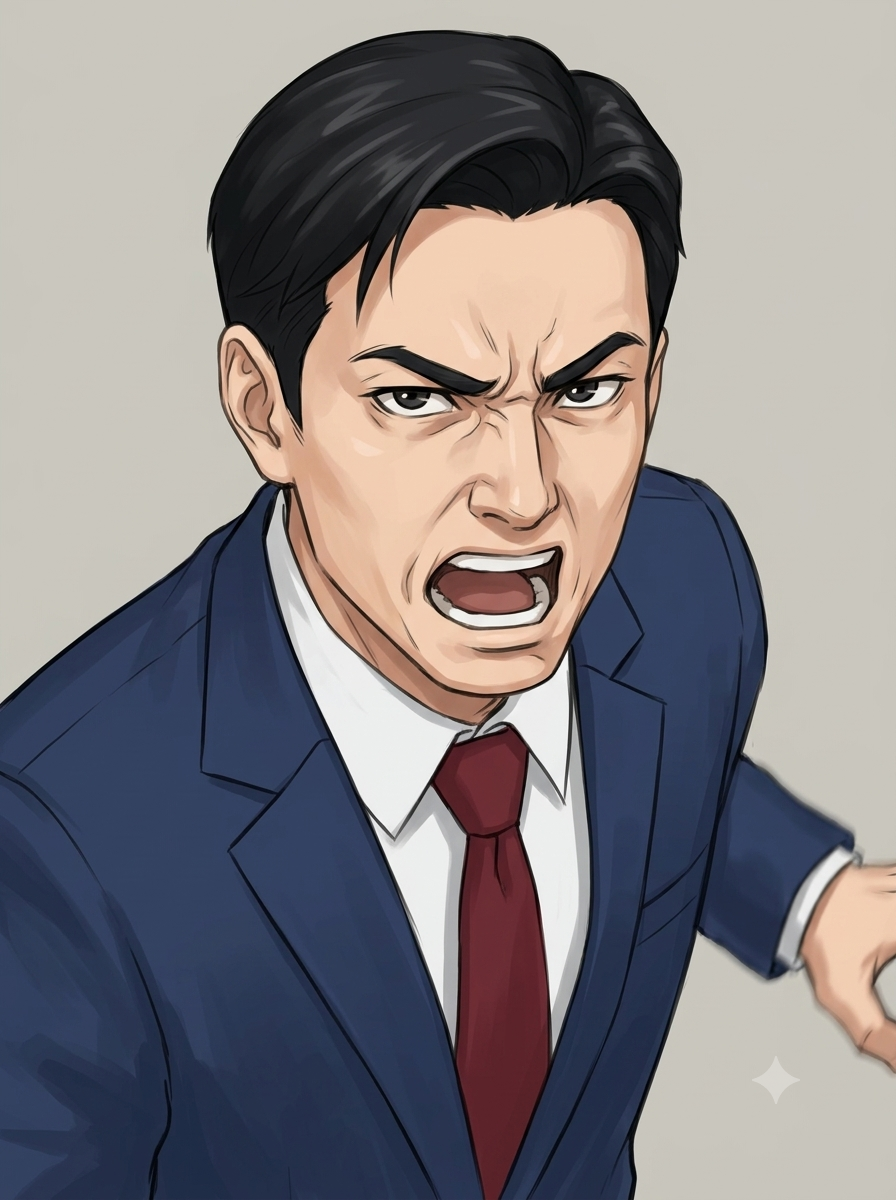
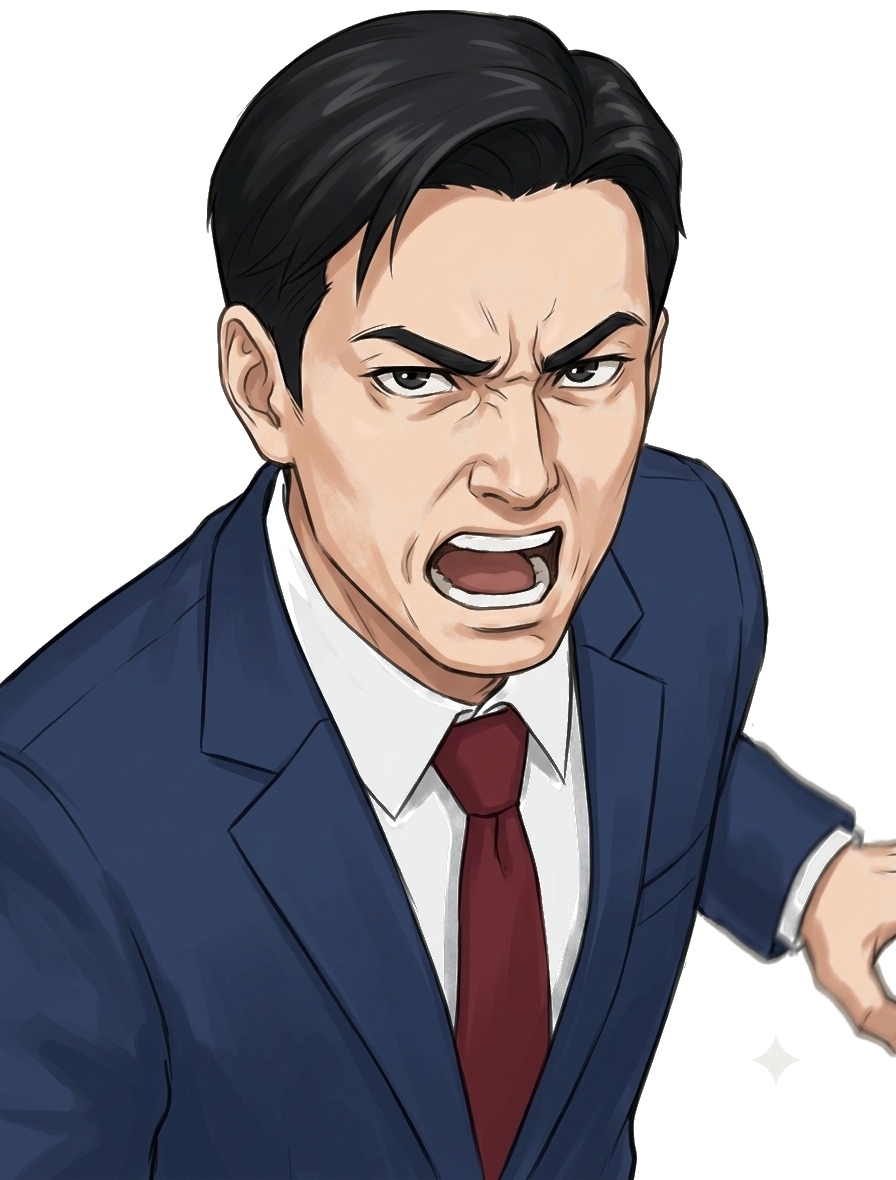
ตัดฉากหลังพอร์เทรตทุกตัวละคร (ทั้งศาลและสวนสัตว์) + ปรับตัวละครในฉากบ่อ/ตีดำ + หน้าอารมณ์ลอยเหนือหัว
- ตัดพื้นหลังสีเทาออกจากพอร์เทรตทั้ง 46 ไฟล์ใน pics/game/portraits/ ให้เป็น
  transparent PNG จริง (ของเดิมเป็น RGBA แต่ alpha=255 ทึบตลอด แค่หลอกเป็น
  .png) แก้ปัญหากรอบสี่เหลี่ยมเทาลอยในกล่องบทสนทนาศาล — ไฟล์ .jpg เดิม
  (judge/prosecutor/defense_lawyer/female_teen/male_fan/male_teen บางส่วน)
  แปลงเป็น .png แล้วลบของเก่าทิ้ง เพราะ JPG ไม่รองรับ alpha
- แก้บั๊ก keying พลาดเฉพาะจุดที่มุมภาพดันเป็นเนื้อตัวละครไม่ใช่พื้นหลัง
  (judge ทั้งชุด, prosecutor 2 ไฟล์, courtroom_cat_sleepy, hippo_mother_angry)
  ด้วยการประมาณสีพื้นหลังจาก median ของจุดตัวอย่างรอบขอบภาพแทนการเฉลี่ย
  4 มุมตรงๆ ซึ่งพังเมื่อบางมุมมีไหล่/ชุดสูทของตัวละครเต็มมุม
- beat "โจนาห์กัดเหลือง": เอาแดง/ดำออกจากฉากตามที่ขอ เหลือแค่เหลือง+โจนาห์
- beat "แดงตีดำ": เอาเหลืองออกจากฉาก เหลือแค่แดง+ดำ
- เพิ่ม pics/game/reactions/<id>_<expr>.png (ครอปหน้าเฉพาะจากพอร์เทรตที่มี
  อยู่แล้ว) + reaction-badge ลูกโป่งหน้าอารมณ์กลมลอยเหนือหัวตัวละครในฉาก
  สวนสัตว์ ผูกกับฟิลด์ expr ต่อ actor ต่อ beat (เดิม pose emoji ไม่โชว์จริง
  เพราะถูกภาพจริงบังไว้ตลอด — ตอนนี้ใช้หน้าตาตัวละครจริงแทน)
- ขยับ .stage-frame margin-top กัน reaction-badge ที่ลอยสูงชนกล่องคำเตือน AI

diff --git a/game-crimlaw-scenario.html b/game-crimlaw-scenario.html
@@ -172,7 +172,7 @@ h1,h2{font-family:'Noto Serif Thai',serif}
 .beat-dot.done{background:var(--gold)}
 .beat-dot.current{background:var(--accent)}
 
-.stage-frame{position:relative;margin-top:26px}
+.stage-frame{position:relative;margin-top:48px}
 .stage{
   position:relative;width:100%;aspect-ratio:4/3;border-radius:var(--radius);
   overflow:hidden;box-shadow:var(--shadow);border:1px solid var(--line);
@@ -249,6 +249,17 @@ h1,h2{font-family:'Noto Serif Thai',serif}
   filter:drop-shadow(0 1px 2px rgba(0,0,0,.4));
 }
 .sprite.bandaged .bandage-badge{display:block}
+
+/* small emotion-face reaction bubble, peeking above the character's head —
+   swapped per beat from the actor's expression portrait set */
+.reaction-badge{
+  position:absolute;top:-6%;right:-4%;width:40%;max-width:52px;
+  aspect-ratio:1/1;border-radius:50%;object-fit:cover;object-position:top center;
+  border:2px solid rgba(255,255,255,.9);box-shadow:0 3px 8px rgba(0,0,0,.35);
+  background:var(--card);opacity:0;transform:scale(.6);
+  transition:opacity .25s ease,transform .25s ease;
+}
+.reaction-badge.show{opacity:1;transform:scale(1)}
 
 .caption-box{
   background:var(--card);border:1px solid var(--line);border-radius:var(--radius);
@@ -453,6 +464,7 @@ const BACKGROUNDS = {
 };
 function spritePath(id){ return 'pics/game/sprites/' + id + '.png'; }
 function standeePath(id){ return 'pics/game/standees/' + id + '.png'; }
+function reactionPath(id, expr){ return 'pics/game/reactions/' + id + '_' + expr + '.png'; }
 function bgPath(id){ return 'pics/game/backgrounds/' + id + '.jpg'; }
 function portraitPath(id, expression){ return 'pics/game/portraits/' + id + '_' + (expression || 'neutral') + '.png'; }
 function courtDisplayName(id){
@@ -480,6 +492,7 @@ function renderSpriteAvatarHTML(spriteId){
        + `onload="this.previousElementSibling.style.display='none'" onerror="this.remove()">`
        + `<span class="bandage-badge">🩹</span>`
        + `<span class="splash-fx">💦</span>`
+       + `<img class="reaction-badge" src="" alt="" onerror="this.classList.remove('show')">`
        + `</div>`;
 }
 function renderStageBgHTML(bgId){
@@ -512,19 +525,19 @@ const SCENARIOS = [
       { caption: 'นายแดง (อายุ 16 ปี) แอบหยิบแหวนทองของแม่ไปจำนำ เอาเงินมาชวน นส.เหลือง แฟนสาว มาเที่ยวดูหมูเด้งที่สวนสัตว์เปิดเขาเขียว',
         actors: [ { id:'male_teen', x:28, active:true }, { id:'female_teen', x:44 } ] },
       { caption: 'ระหว่างต่อคิวดูหมูเด้ง นางดำ ซึ่งอ้างตัวเป็นอินฟลูเอนเซอร์ถ่ายคอนเทนต์ เดินแซงคิวเบียดเสียดผู้คนอย่างไม่แคร์ใคร',
-        actors: [ { id:'male_teen', x:24 }, { id:'female_teen', x:40 }, { id:'female_influencer', x:60, active:true, pose:'🏃♀' } ] },
+        actors: [ { id:'male_teen', x:24 }, { id:'female_teen', x:40 }, { id:'female_influencer', x:60, active:true, pose:'🏃♀', expr:'confident' } ] },
       { caption: 'นางดำเบียดจนชน นส.เหลือง เซถลาตกลงไปในบ่อหมูเด้ง (บ่อไม่ลึกมากนัก)',
-        actors: [ { id:'male_teen', x:22, pose:'😨' }, { id:'female_teen', x:48, active:true, pose:'😱', scale:0.55, effect:'splash' }, { id:'female_influencer', x:56 } ] },
+        actors: [ { id:'male_teen', x:22, pose:'😨', expr:'shocked' }, { id:'female_teen', x:48, active:true, pose:'😱', scale:0.55, effect:'splash', expr:'shocked' }, { id:'female_influencer', x:56 } ] },
       { caption: 'โจนาห์ แม่ฮิปโปแคระ ตกใจ วิ่งเข้าใส่กัด นส.เหลือง จนได้รับบาดเจ็บสาหัส',
-        actors: [ { id:'male_teen', x:20, pose:'😱' }, { id:'female_teen', x:48, pose:'🤕', bandaged:true }, { id:'hippo_mother', x:44, active:true, pose:'😡' }, { id:'female_influencer', x:60 } ] },
+        actors: [ { id:'female_teen', x:38, pose:'🤕', bandaged:true, expr:'shocked' }, { id:'hippo_mother', x:58, active:true, pose:'😡', expr:'angry' } ] },
       { caption: 'นายแดงเห็นแฟนสาวถูกกัดจนโกรธจัด แย่งขาตั้งกล้องจากนางดำมากระหน่ำตี ทำให้นางดำบาดเจ็บที่แขนและขา',
-        actors: [ { id:'male_teen', x:52, active:true, pose:'😡' }, { id:'female_influencer', x:60, pose:'🤕' }, { id:'female_teen', x:32, pose:'🤕', bandaged:true } ] },
+        actors: [ { id:'male_teen', x:42, active:true, pose:'😡', expr:'angry' }, { id:'female_influencer', x:58, pose:'🤕', expr:'shocked' } ] },
       { caption: 'นายเขียว แฟนคลับที่จำนางดำได้ วิ่งเข้าไปผลักนายแดงเพื่อให้หยุดทำร้ายนางดำ',
-        actors: [ { id:'male_fan', x:50, active:true, pose:'😤' }, { id:'male_teen', x:56, pose:'😲' }, { id:'female_influencer', x:64, pose:'🤕' } ] },
+        actors: [ { id:'male_fan', x:50, active:true, pose:'😤', expr:'angry' }, { id:'male_teen', x:56, pose:'😲', expr:'shocked' }, { id:'female_influencer', x:64, pose:'🤕', expr:'sad' } ] },
       { caption: 'แรงผลักทำให้นายแดงเซถลาตกบ่อหมูเด้งไปอีกคน หมูเด้ง (ลูกฮิปโป) วิ่งเข้ามางับขา — เจ็บๆ คันๆ แต่หมูเด้งกลับมีความสุข นายแดงยังมีแผลถลอกตามตัวจากการตกกระแทกพื้นด้วย',
-        actors: [ { id:'male_teen', x:44, active:true, pose:'😖' }, { id:'hippo_baby', x:40, active:true, pose:'🥰' }, { id:'male_fan', x:58 } ] },
+        actors: [ { id:'male_teen', x:44, active:true, pose:'😖', expr:'shocked' }, { id:'hippo_baby', x:40, active:true, pose:'🥰' }, { id:'male_fan', x:58 } ] },
       { caption: 'สามวันต่อมา นางดำ อินฟลูเอนเซอร์สายมูเตลู เสียชีวิตขณะไลฟ์สดขายของ สาเหตุคือแผลติดเชื้อในกระแสเลือด — เพราะเธอไม่ยอมไปหาหมอ แต่เลือกดื่ม/อาบน้ำมนต์รักษาแผลแทน',
-        actors: [ { id:'female_influencer', x:50, active:true, pose:'😇' } ], funeral:true },
+        actors: [ { id:'female_influencer', x:50, active:true, pose:'😇', expr:'sad' } ], funeral:true },
     ],
     comprehension: { question: 'เข้าใจโจทย์ไหม?' },
     courtroomBg: 'courtroom',
@@ -763,6 +776,15 @@ function syncBeat(){
       el.style.setProperty('--actor-scale', a.scale != null ? a.scale : 1);
       const emojiEl = el.querySelector('.sprite-emoji');
       if (emojiEl) emojiEl.textContent = a.pose || SPRITES[id].emoji;
+      const reactionEl = el.querySelector('.reaction-badge');
+      if (reactionEl) {
+        if (a.expr) {
+          reactionEl.src = reactionPath(id, a.expr);
+          reactionEl.classList.add('show');
+        } else {
+          reactionEl.classList.remove('show');
+        }
+      }
       if (a.effect === 'splash') {
         el.classList.remove('fx-active');
         void el.offsetWidth; // force reflow so the animation can retrigger
